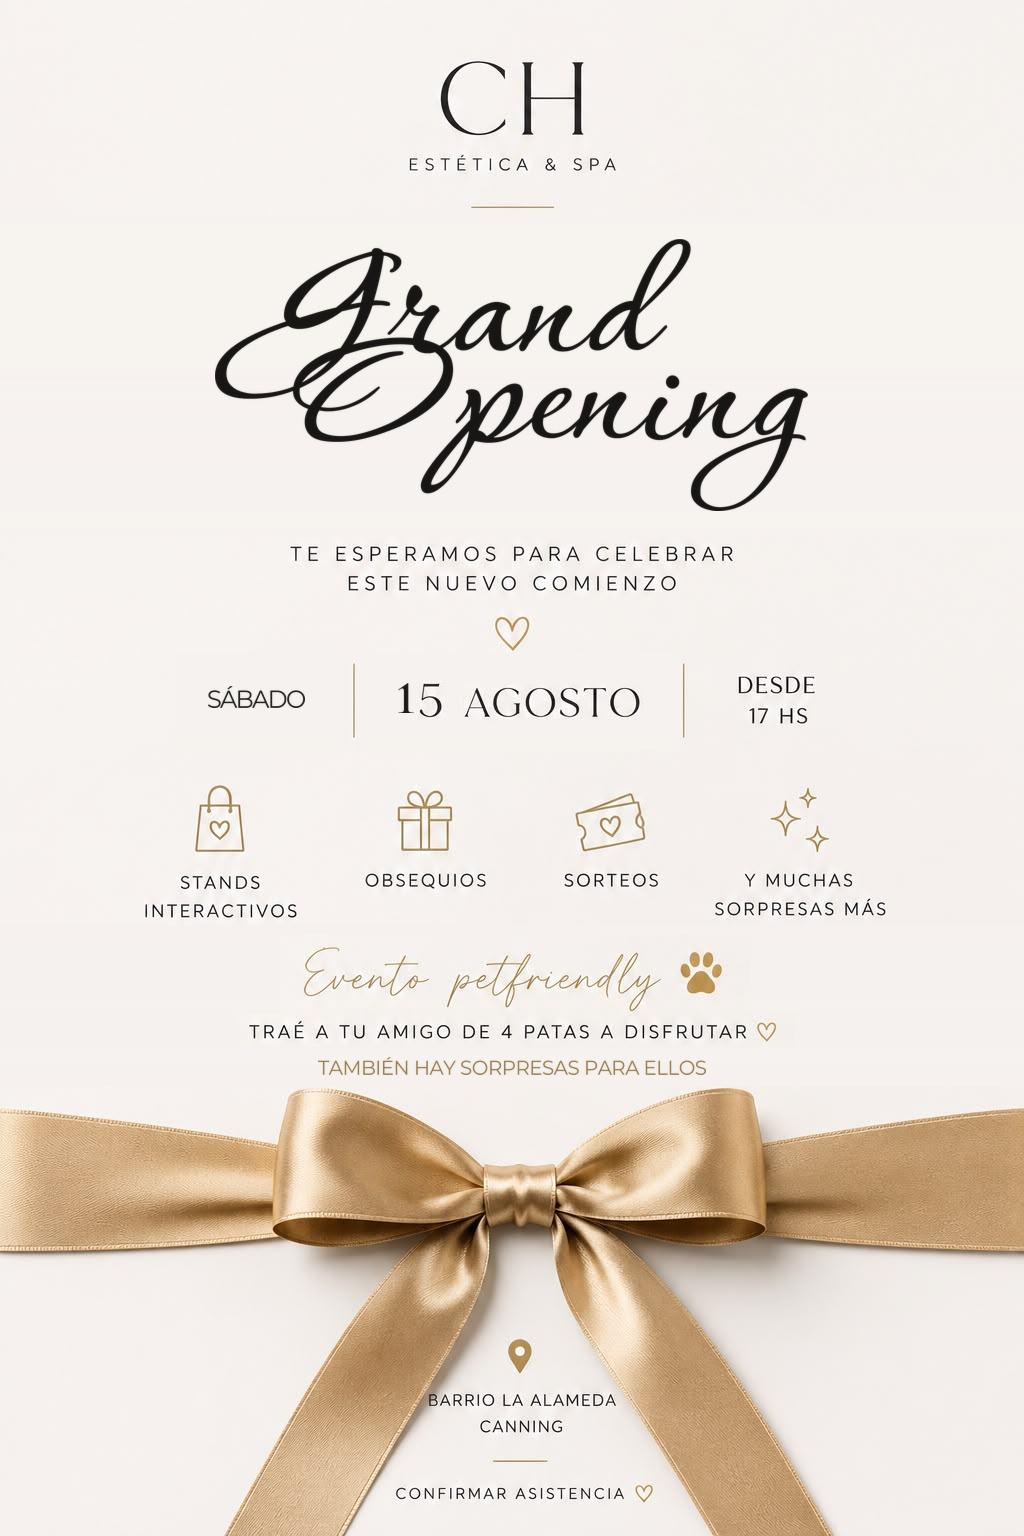
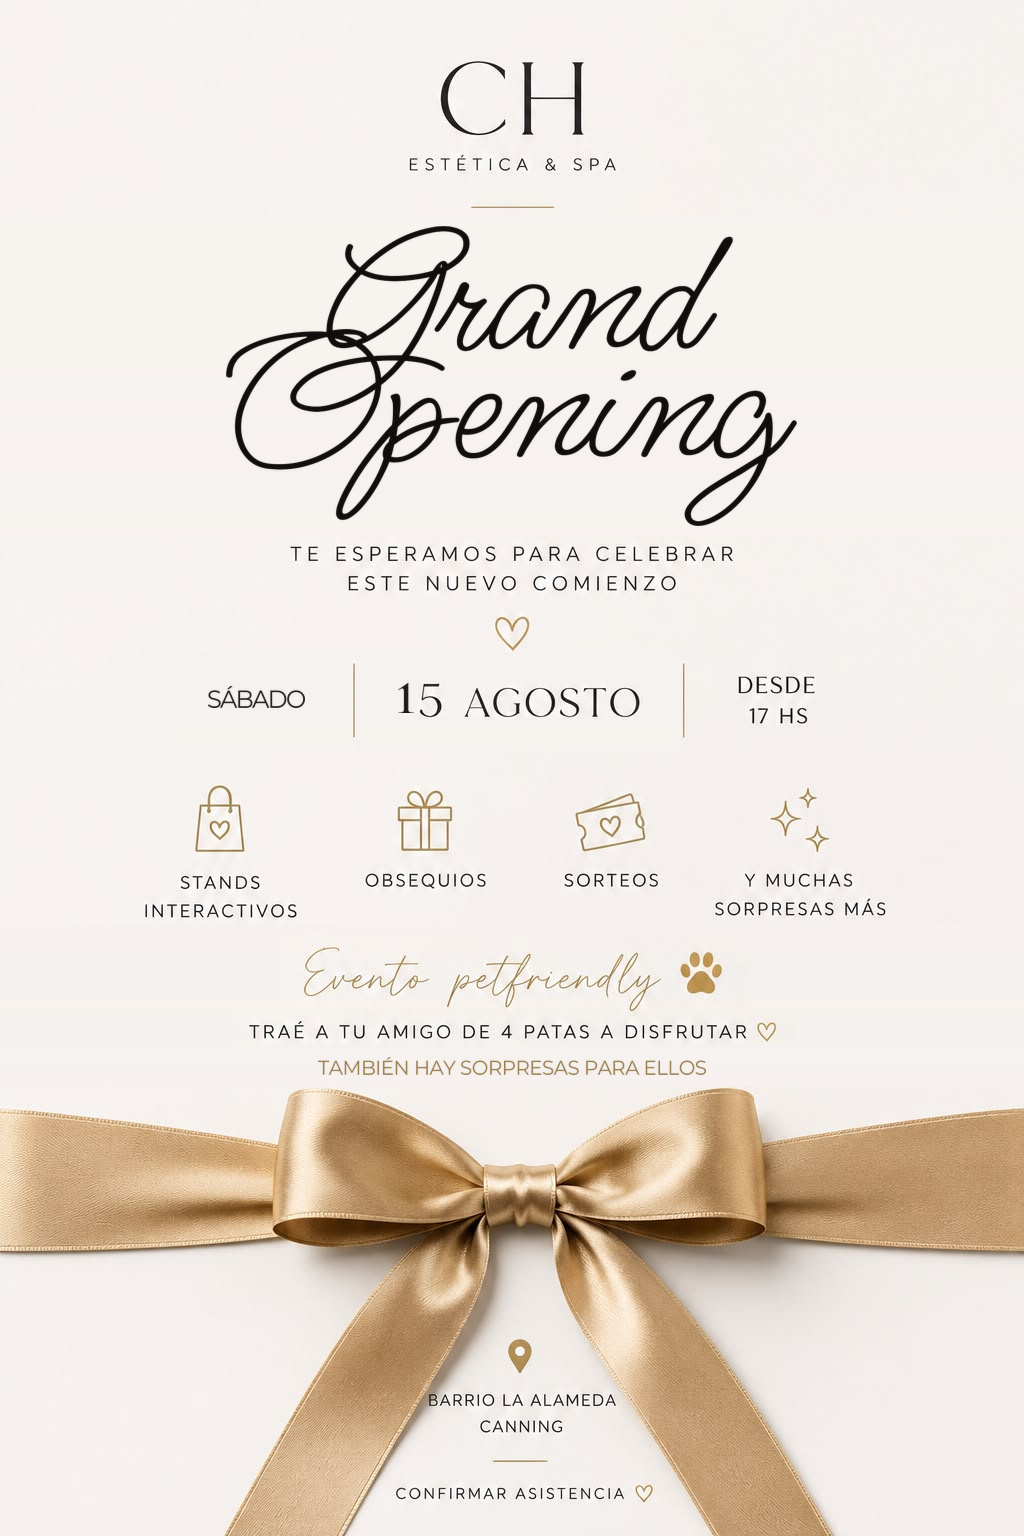
Titular del flyer de CH a script monolineal fino (Ms Madi)
El cliente rechazó Corinthia: pidió que el titular tuviera el estilo de la
fuente de "Evento petfriendly" — delicado y premium. Esa fuente es un script
MONOLINEAL (contraste casi nulo, trazo parejo de firma) y Corinthia es lo
opuesto: alto contraste con trazos gruesos.

Comparé 18 scripts de Google Fonts renderizando "Evento petfriendly" al mismo
ancho que el original. Ms Madi es la que replica el trazo uniforme; Whisper
quedó segunda pero tiene contraste visible y en dos líneas colisiona.

El bloque pasa de dos líneas desplazadas a dos líneas centradas y anidadas:
con trazo fino el desplazamiento fragmenta el bloque y deja huecos de aire.
Queda en 571x300 y el titular sube a negro casi puro (#100E0D), porque un
trazo fino necesita contraste máximo o se disuelve.

Un monolineal se corta al escalar, así que el script ahora mide el trazo fino
(percentil 12 de las corridas de tinta por fila) y verifica el piso de 6 px:
a 320 px de ancho, que es el preview de WhatsApp, quedan 1,9 px efectivos.
El alto de la caja es lo que fija el ancho del bloque, no al revés.

Queda como variante `una-linea` la disposición tipo firma (830x159): más aire,
pero el trazo baja a 5 px y queda al límite para WhatsApp.

Changed region(s): [[0.1875, 0.125, 0.7812, 0.3438]]

diff --git a/scripts/marketing/flyer-ch-grand-opening.py b/scripts/marketing/flyer-ch-grand-opening.py
@@ -1,17 +1,22 @@
 #!/usr/bin/env python3
 """Reedicion del flyer GRAND OPENING - CH Estetica & Spa.
 
-Cambios: fecha SABADO 15 AGOSTO, titular en script (Corinthia),
-linea nueva bajo el bloque petfriendly.
+Cambios: fecha SABADO 15 AGOSTO, titular en script monolineal fino (Ms Madi,
+el mismo espiritu que "Evento petfriendly"), linea nueva bajo el bloque pet.
+
+Uso: python3 flyer-ch-grand-opening.py [dos-lineas|una-linea]
 """
 import statistics
 from PIL import Image, ImageDraw, ImageFont, ImageChops, ImageFilter
+
+import sys
+TITLE_MODE = sys.argv[1] if len(sys.argv) > 1 else 'dos-lineas'
 
 SRC = 'flyer-ch-original.jpg'
 F = 'fonts/'
 SS = 4  # supersample
 
-INK_TITLE = (24, 22, 20)
+INK_TITLE = (16, 14, 13)   # trazo fino: necesita contraste maximo
 INK_TEXT = (26, 25, 23)
 GOLD_SOFT = (150, 121, 74)
 
@@ -142,35 +147,59 @@ def solve_tracking(text, font, target_w, ss=SS):
 
 
 # ================================================================ 1. TITULAR
-# Corinthia Bold, dos lineas desplazadas (Grand arriba-izq / Opening abajo-der)
+# Ms Madi: script monolineal fino, del mismo espiritu que "Evento petfriendly"
 wipe(0, 215, W, 536)
+SCRIPT = 'MsMadi.ttf'
 
 
-def script_block(size, overlap, dx):
-    def word(txt):
-        m = Image.new('L', (size * 8, size * 5), 0)
-        ImageDraw.Draw(m).text((size, size * 3), txt, fill=255, anchor='ls',
-                               font=ImageFont.truetype(F + 'Corinthia-Bold.ttf', size))
-        return m.crop(m.getbbox())
+def word_alpha(size, txt):
+    m = Image.new('L', (size * 12, size * 6), 0)
+    ImageDraw.Draw(m).text((size, size * 4), txt, fill=255, anchor='ls',
+                           font=ImageFont.truetype(F + SCRIPT, size))
+    return m.crop(m.getbbox())
 
-    a1, a2 = word('Grand'), word('Opening')
-    gap = int(-overlap * size)
-    tw = max(a1.width, a2.width) + 2 * dx + 80
-    th = a1.height + gap + a2.height + 80
+
+def title_block(mode, size=420, lead=0.45):
+    if mode == 'una-linea':
+        return word_alpha(size, 'Grand Opening')
+    a1, a2 = word_alpha(size, 'Grand'), word_alpha(size, 'Opening')
+    gap = int(-lead * size)                       # negativo: las lineas se anidan
+    tw, th = max(a1.width, a2.width) + 60, a1.height + gap + a2.height + 60
     c = Image.new('L', (tw, th), 0)
-    c.paste(a1, ((tw - a1.width) // 2 - dx, 40), a1)
+    c.paste(a1, ((tw - a1.width) // 2, 30), a1)
     l = Image.new('L', c.size, 0)
-    l.paste(a2, ((tw - a2.width) // 2 + dx, 40 + a1.height + gap))
-    return ImageChops.lighter(c, l).crop(ImageChops.lighter(c, l).getbbox())
+    l.paste(a2, ((tw - a2.width) // 2, 30 + a1.height + gap))
+    r = ImageChops.lighter(c, l)
+    return r.crop(r.getbbox())
 
 
-title = script_block(560, 0.34, 150)
-BOX_W, BOX_H = 660, 272
+def hairline(mask):
+    """Percentil 12 de las corridas de tinta por fila = grosor del trazo fino."""
+    import numpy as np
+    a = np.array(mask) > 110
+    runs = []
+    for row in a:
+        n = 0
+        for v in row:
+            if v:
+                n += 1
+            elif n:
+                runs.append(n)
+                n = 0
+        if n:
+            runs.append(n)
+    return float(np.percentile(runs, 12)) if runs else 0.0
+
+
+BOX_W, BOX_H = 830, 300                            # hueco util entre filete y kicker
+title = title_block(TITLE_MODE)
 s = min(BOX_W / title.width, BOX_H / title.height)
 title = title.resize((round(title.width * s), round(title.height * s)), Image.LANCZOS)
-TY = 375 - title.height // 2            # centro optico del hueco 218..532
-stamp(title, (W - title.width) // 2, TY, INK_TITLE, blur=0.35)
-print(f'titular {title.width}x{title.height} @ y={TY}..{TY + title.height}')
+TY = 376 - title.height // 2
+stamp(title, (W - title.width) // 2, TY, INK_TITLE, blur=0.3)
+hl = hairline(title)
+print(f'titular[{TITLE_MODE}] {title.width}x{title.height} @ y={TY}..{TY + title.height} '
+      f'| trazo fino {hl:.1f}px (a 320px de ancho: {hl * 0.3125:.2f}px)')
 
 # ================================================================ 2. FECHA
 # DOMINGO -> SABADO   |   25 -> 15 (el "5" se reusa del original)
@@ -246,6 +275,6 @@ for name, y0, y1 in [('titular', 215, 536), ('fecha', 652, 750), ('inferior', 92
     ys = [y for y in range(y0, y1) for x in range(0, W, 3) if ink(x, y)]
     print(f'  banda {name}: tinta y={min(ys)}..{max(ys)}' if ys else f'  banda {name}: vacia')
 
-out.save('flyer_ch_15agosto.jpg', quality=95, subsampling=0)
-out.save('flyer_ch_15agosto.png')
+out.save(f'flyer_{TITLE_MODE}.jpg', quality=95, subsampling=0)
+out.save(f'flyer_{TITLE_MODE}.png')
 print('OK ->', out.size)

diff --git a/scripts/marketing/README.md b/scripts/marketing/README.md
@@ -10,23 +10,28 @@ original para todo lo demás (íconos, moño, "AGOSTO", bloque petfriendly).
 
 | Zona | Antes | Después |
 |---|---|---|
-| Titular | `GRAND OPENING` en serif didone | `Grand Opening` en script (Corinthia Bold), dos líneas desplazadas |
+| Titular | `GRAND OPENING` en serif didone | `Grand Opening` en script monolineal fino (Ms Madi), dos líneas anidadas |
 | Fecha | `DOMINGO · 25 AGOSTO` | `SÁBADO · 15 AGOSTO` |
 | Petfriendly | — | línea nueva `TAMBIÉN HAY SORPRESAS PARA ELLOS` en dorado suave |
 
-**Salida:** `flyer_ch_15agosto.jpg` (1024×1536, mismo formato que el original) →
+**Salida:** `flyer_dos-lineas.jpg` (1024×1536, mismo formato que el original) →
 publicado en `public/tenants/ch-grand-opening-15ago.jpg`.
 
 ### Cómo correrlo
 
 ```bash
-pip install Pillow                      # requiere raqm para features OpenType (lnum)
+pip install Pillow numpy                # Pillow requiere raqm para features OpenType (lnum)
 mkdir -p fonts && cd fonts              # tipografías desde github.com/google/fonts
-curl -LO https://raw.githubusercontent.com/google/fonts/main/ofl/corinthia/Corinthia-Bold.ttf
+curl -LO https://raw.githubusercontent.com/google/fonts/main/ofl/msmadi/MsMadi-Regular.ttf
 curl -L -o CormorantGaramond.ttf 'https://raw.githubusercontent.com/google/fonts/main/ofl/cormorantgaramond/CormorantGaramond%5Bwght%5D.ttf'
 curl -L -o Montserrat.ttf 'https://raw.githubusercontent.com/google/fonts/main/ofl/montserrat/Montserrat%5Bwght%5D.ttf'
+mv MsMadi-Regular.ttf MsMadi.ttf
 cd .. && python3 flyer-ch-grand-opening.py    # con flyer-ch-original.jpg en el cwd
 ```
+
+Acepta un argumento de disposición del titular: `dos-lineas` (default, el que se
+publicó) o `una-linea` (variante firma, 830×159 — más aire, pero el trazo baja a
+5 px y queda al límite para el preview de WhatsApp).
 
 ### Decisiones de tipografía (calibradas contra el original, no elegidas a ojo)
 
@@ -37,8 +42,12 @@ cd .. && python3 flyer-ch-grand-opening.py    # con flyer-ch-original.jpg en el 
 - **Cormorant Garamond 600** para el `1` del `15`: el `5` del original no tiene
   terminal de bola en el brazo superior (Playfair sí), y Cormorant lo replica.
   El `5` y `AGOSTO` no se redibujan: se mueven desde el original.
-- **Corinthia Bold** para el titular: alto contraste, del mismo ADN didone que el
-  logo CH, y con peso suficiente para no volverse hilo sobre el papel `#F7F5F2`.
+- **Ms Madi** para el titular: el cliente pidió que el titular tuviera el estilo de
+  la fuente de "Evento petfriendly", que es un script **monolineal** (contraste casi
+  nulo, trazo parejo de firma). Contra 18 scripts de Google Fonts renderizando el
+  mismo texto al mismo ancho, Ms Madi es la que replica ese trazo uniforme; Whisper
+  quedó segunda pero tiene contraste visible y sus dos líneas colisionan. Corinthia
+  y Great Vibes se descartaron por lo contrario: son de alto contraste.
 
 ### Dos detalles que importan si se toca el script
 
@@ -50,5 +59,10 @@ cd .. && python3 flyer-ch-grand-opening.py    # con flyer-ch-original.jpg en el 
 - **El moño arranca en `y=1088`.** Es el techo duro del bloque inferior; por eso
   el bloque petfriendly sube 24 px para hacerle lugar a la línea nueva. El script
   verifica el margen y lo imprime al final.
+- **Un monolineal fino se corta al escalar.** A 320 px de ancho (preview de
+  WhatsApp) la pieza se ve al 31 %: un trazo de 5 px queda en 1,6 px y el antialias
+  lo lava. El script mide el trazo fino (percentil 12 de las corridas de tinta por
+  fila) y lo imprime junto al equivalente a 320 px. Piso: **6 px**. Por eso el
+  bloque va a 571×300 y no más chico — el alto de la caja es lo que fija el ancho.
 
 — Elaborado por GSG
